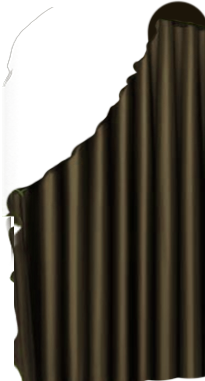
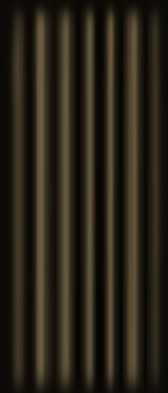
curtain movement + dinosaur index.

diff --git a/src/pages/public/Triassic-Inferior/Triassic-Inferior.tsx b/src/pages/public/Triassic-Inferior/Triassic-Inferior.tsx
@@ -12,6 +12,10 @@ export const TriassicInferior = () => {
   const [activeDinosaur, setActiveDinosaur] = useState<number | null>(null);
   const [isModalOpen, setIsModalOpen] = useState<boolean>(false);
   const [selectedDinosaur, setSelectedDinosaur] = useState<number | null>(null);
+  const [curtain1IsHovered, setCurtain1IsHovered] = useState<boolean>(false);
+  const [curtain2IsHovered, setCurtain2IsHovered] = useState<boolean>(false);
+  const [curtain3IsHovered, setCurtain3IsHovered] = useState<boolean>(false);
+  const [secondPassed, setSecondPassed] = useState<boolean>(false);
 
   const handleMouseMove = (
     mouseEvent: React.MouseEvent<HTMLDivElement>,
@@ -55,26 +59,40 @@ export const TriassicInferior = () => {
   return (
     <div>
       <Nav />
-      <div className={styles.triassicInferiorBg}>
+      <div className={styles.triassicInferiorContainer}>
 
-        
+        <div
+          className={`${styles.courtains1} ${curtain1IsHovered && secondPassed ? styles.curtainHover : ""}`}
+          onMouseEnter={() => {
+            setCurtain1IsHovered(true);
+            setTimeout(() => setSecondPassed(true), 1000);
+          }}
+        >
+          <div className={`${styles.leftCurtain} ${curtain1IsHovered && styles.leftCurtainHover}`}></div>
+          <div className={`${styles.rightCurtain} ${curtain1IsHovered && styles.rightCurtainHover}`}></div>
+        </div>
+        <div className={styles.courtains2}></div>
+        <div className={styles.courtains3}></div>
+
+        <div className={styles.triassicInferiorBg} style={{ pointerEvents: "none" }}></div>
 
         {/* <VirtualAssistant/> */}
-        <GalleryArrows page1="map" page2="triassic-medio"/>
-        <GalleryDinosaurNames dinosaurs={["Eoraptor","Postosuchus","Herrerasaurus"]}></GalleryDinosaurNames>
+        <GalleryArrows page1="map" page2="triassic-medio" />
+        <GalleryDinosaurNames dinosaurs={["Eoraptor", "Postosuchus", "Herrerasaurus"]}></GalleryDinosaurNames>
 
-        {[styles.geneticBg1, styles.geneticBg2, styles.geneticBg3].map((bgClass, index) => (
-          <div
-            key={index}
-            className={bgClass}
-            onMouseMove={(e) => handleMouseMove(e, index)}
-            onClick={() => handleDinosaurClick(index)}
-          >
-            <div className={`${styles.dinosaur} ${styles[`dinosaur${index + 1}`]}`}></div>
-          </div>
-        ))}
+        {[styles.geneticBg1, styles.geneticBg2, styles.geneticBg3].map((bgClass, index) => {
+          return (
+            <div
+              key={index}
+              className={bgClass}
+              onMouseMove={(e) => handleMouseMove(e, index)}
+              onClick={() => handleDinosaurClick(index)}
+            >
+              <div className={`${styles.dinosaur} ${styles[`dinosaur${index + 1}`]}`}></div>
+            </div>
+          );
+        })}
 
-        
 
         {isModalOpen && (
           <div className={styles.modalOverlay + " preview-scan-dino"} onClick={closeModal}>

diff --git a/src/pages/public/Triassic-Inferior/Triassic-Inferior.module.css b/src/pages/public/Triassic-Inferior/Triassic-Inferior.module.css
@@ -1,12 +1,11 @@
-body {
-  /* background-image: none !important; */
-}
-
-/* Triassic Inferior Background */
-.triassicInferiorBg {
+.triassicInferiorContainer {
   width: 100vw;
   height: 100vh;
-  background-image: url(/public/assets/img/era-bg/room-bg-4.png);
+}
+
+.triassicInferiorBg {
+  width: 100%;
+  height: 100%;
   background-image: url(/public/assets/img/gallery-bg/gallery-bg-triassic.png);
   background-size: 100% 100%;
   background-position: bottom;
@@ -15,6 +14,70 @@ body {
   position: relative;
   margin: 0;
   padding: 0;
+  z-index: 2;
+
+}
+
+.courtains1,
+.courtains2,
+.courtains3 {
+  position: absolute;
+  /* background-color: rebeccapurple; */
+  width: 23%;
+  height: 47%;
+  z-index: 1;
+  top: 33%;
+  /* border: 2px solid black; */
+  display: flex;
+  justify-content: center;
+  align-items: center;
+
+  pointer-events: all;
+}
+
+.courtains1 {
+  left: 10%;
+}
+
+.courtains2 {
+  left: 39%;
+}
+
+.courtains3 {
+  right: 10%;
+}
+
+.curtainHover {
+  z-index: -1;
+}
+
+.leftCurtainHover {
+  transform: scaleX(0);
+}
+
+.rightCurtainHover {
+  transform: scaleX(0);
+}
+
+.leftCurtain,
+.rightCurtain {
+  width: 50%;
+  height: 100%;
+  background-size: 100% 100%;
+  background-position: center;
+  background-repeat: no-repeat;
+}
+
+.leftCurtain {
+  background-image: url(/public/assets/img/gallery-bg/courtains/left-courtain-triassic.png);
+  transform-origin: left;
+  transition: transform 1s ease-in-out;
+}
+
+.rightCurtain {
+  background-image: url(/public/assets/img/gallery-bg/courtains/right-courtain-triassic.png);
+  transform-origin: right;
+  transition: transform 1s ease-in-out;
 }
 
 /* Genetic Backgrounds */

diff --git a/src/pages/public/Cretaceous-Inferior/Cretaceous-Inferior.module.css b/src/pages/public/Cretaceous-Inferior/Cretaceous-Inferior.module.css
@@ -21,6 +21,12 @@
   transition: all 300ms ease-in-out;
 }
 
+.geneticBg1-higherIndex,
+.geneticBg2-higherIndex,
+.geneticBg3-higherIndex {
+  z-index: 5;
+}
+
 .geneticBg1:hover,
 .geneticBg2:hover,
 .geneticBg3:hover {

diff --git a/src/components/GalleryDinosaurNames/GalleryDinosaurNames.module.css b/src/components/GalleryDinosaurNames/GalleryDinosaurNames.module.css
@@ -9,6 +9,8 @@
     justify-content: space-between;
     align-items: center;
     /* background-color: red; */
+    z-index: 3;
+    pointer-events: none;
 }
 
 /* .dinosaurData {

diff --git a/src/components/GalleryArrows/GalleryArrows.module.css b/src/components/GalleryArrows/GalleryArrows.module.css
@@ -15,6 +15,7 @@
   align-items: center;
   /* background-color: blue; */
   top: 20vw;
+  z-index: 3;
 }
 
 .arrowPrevious:hover,
